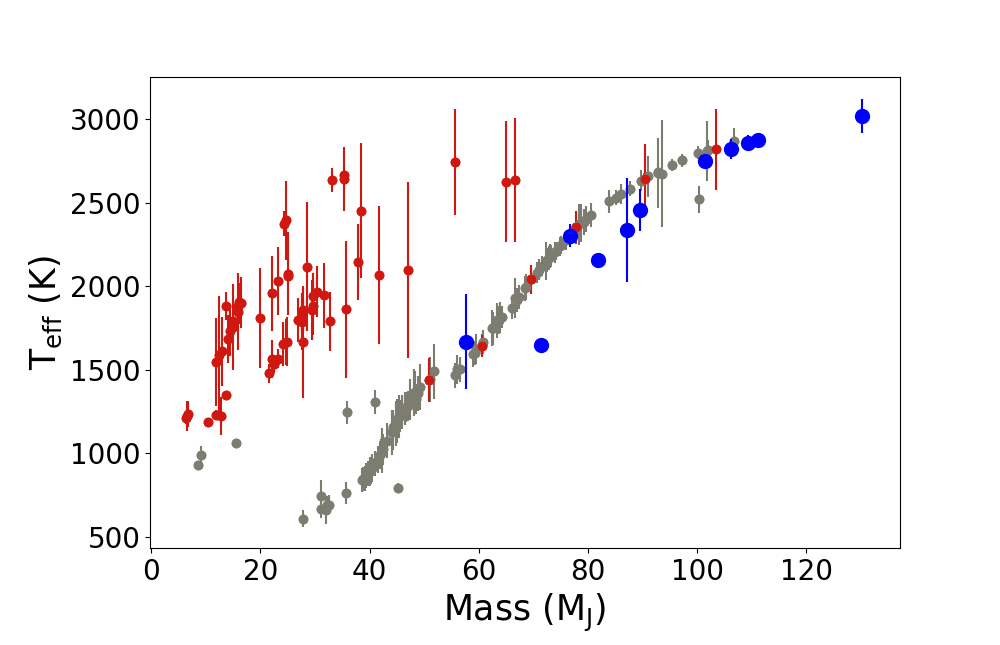
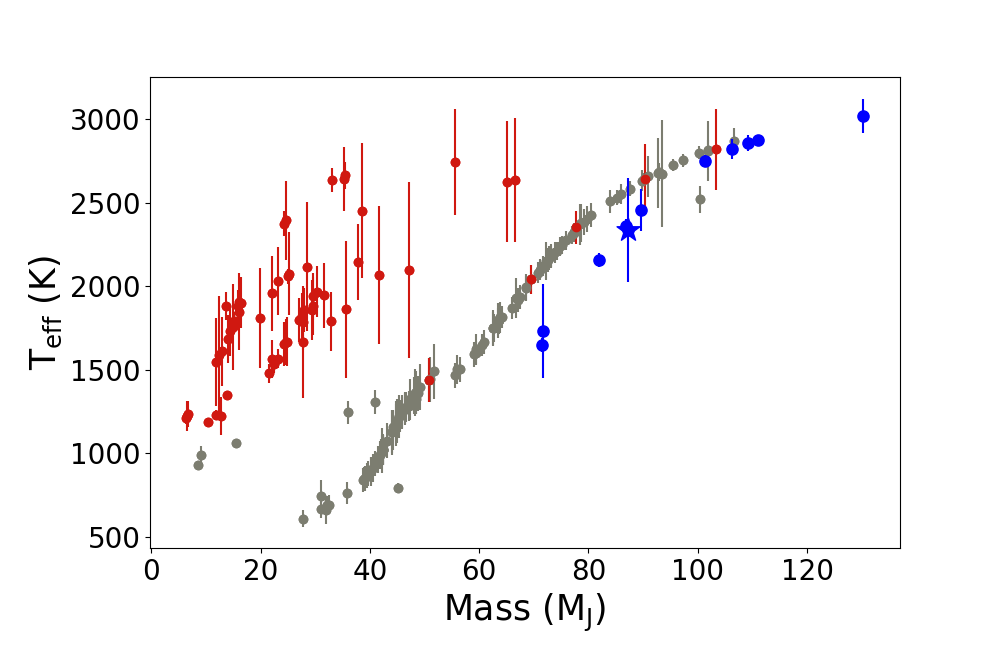
New point size and 1256 a star and labeled

diff --git a/SptvMass.py b/SptvMass.py
@@ -30,8 +30,12 @@ plt.scatter(df_field['spt'], df_field['mass'], color='#7C7D70')
 ax1.errorbar(df_field['spt'], df_field['mass'], yerr=df_field['mass_unc'], c='#7C7D70', fmt='o')
 plt.scatter(df_young['spt'], df_young['mass'], color='#D01810')
 ax1.errorbar(df_young['spt'], df_young['mass'], yerr=df_young['mass_unc'], c='#D01810', fmt='o')
-plt.scatter(df_sub['SpT'], df_sub['mass'], color='blue',s=100, zorder=5)
+plt.scatter(df_sub['SpT'], df_sub['mass'], color='blue', s=65, zorder=5)
 ax1.errorbar(df_sub['SpT'], df_sub['mass'], yerr=df_sub['mass_unc'], c='blue', fmt='o', zorder=6)
+
+# Make 1256-0224 stand out
+plt.scatter(df_sub['SpT'][0], df_sub['mass'][0], color='blue', s=300, zorder=7, marker="*")
+ax1.annotate('1256-0224', xy=(12, 95), color='k', fontsize=12)
 
 plt.savefig('Plots/SptVmass.png')
 
@@ -57,7 +61,8 @@ plt.scatter(df_field['mass'], df_field['Teff'], color='#7C7D70')
 ax1.errorbar(df_field['mass'], df_field['Teff'], yerr=df_field['Teff_unc'], c='#7C7D70', fmt='o')
 plt.scatter(df_young['mass'], df_young['Teff'], color='#D01810')
 ax1.errorbar(df_young['mass'], df_young['Teff'], yerr=df_young['Teff_unc'], c='#D01810', fmt='o')
-plt.scatter(df_sub['mass'], df_sub['Teff'], color='blue', s=100, zorder=5)
+plt.scatter(df_sub['mass'], df_sub['Teff'], color='blue', s=65, zorder=5)
 ax1.errorbar(df_sub['mass'], df_sub['Teff'], yerr=df_sub['Teff_err'], c='blue', fmt='o', zorder=6)
+plt.scatter(df_sub['mass'][0], df_sub['Teff'][0], color='blue', s=300, zorder=7, marker="*")
 
 plt.savefig('Plots/TeffVmass.png')

diff --git a/SpTvTeff.py b/SpTvTeff.py
@@ -45,6 +45,6 @@ ax1.errorbar(df_sub['SpT'], df_sub['Teff'], yerr=df_sub['Teff_err'], c='blue', f
 # ------ Fit polynomial for subdwarfs ------
 # drop nan from coulmn need to get polynomial
 df_subpoly = df_sub[pd.notnull(df_sub['Teff'])]
-np.polyfit(df_subpoly['SpT'], df_subpoly['Teff'], 2, full=True, w=df_subpoly['Teff_err'])
+np.polyfit(df_subpoly['SpT'], df_subpoly['Teff'], 1)
 
 plt.savefig('Plots/SptvTeff.png')
